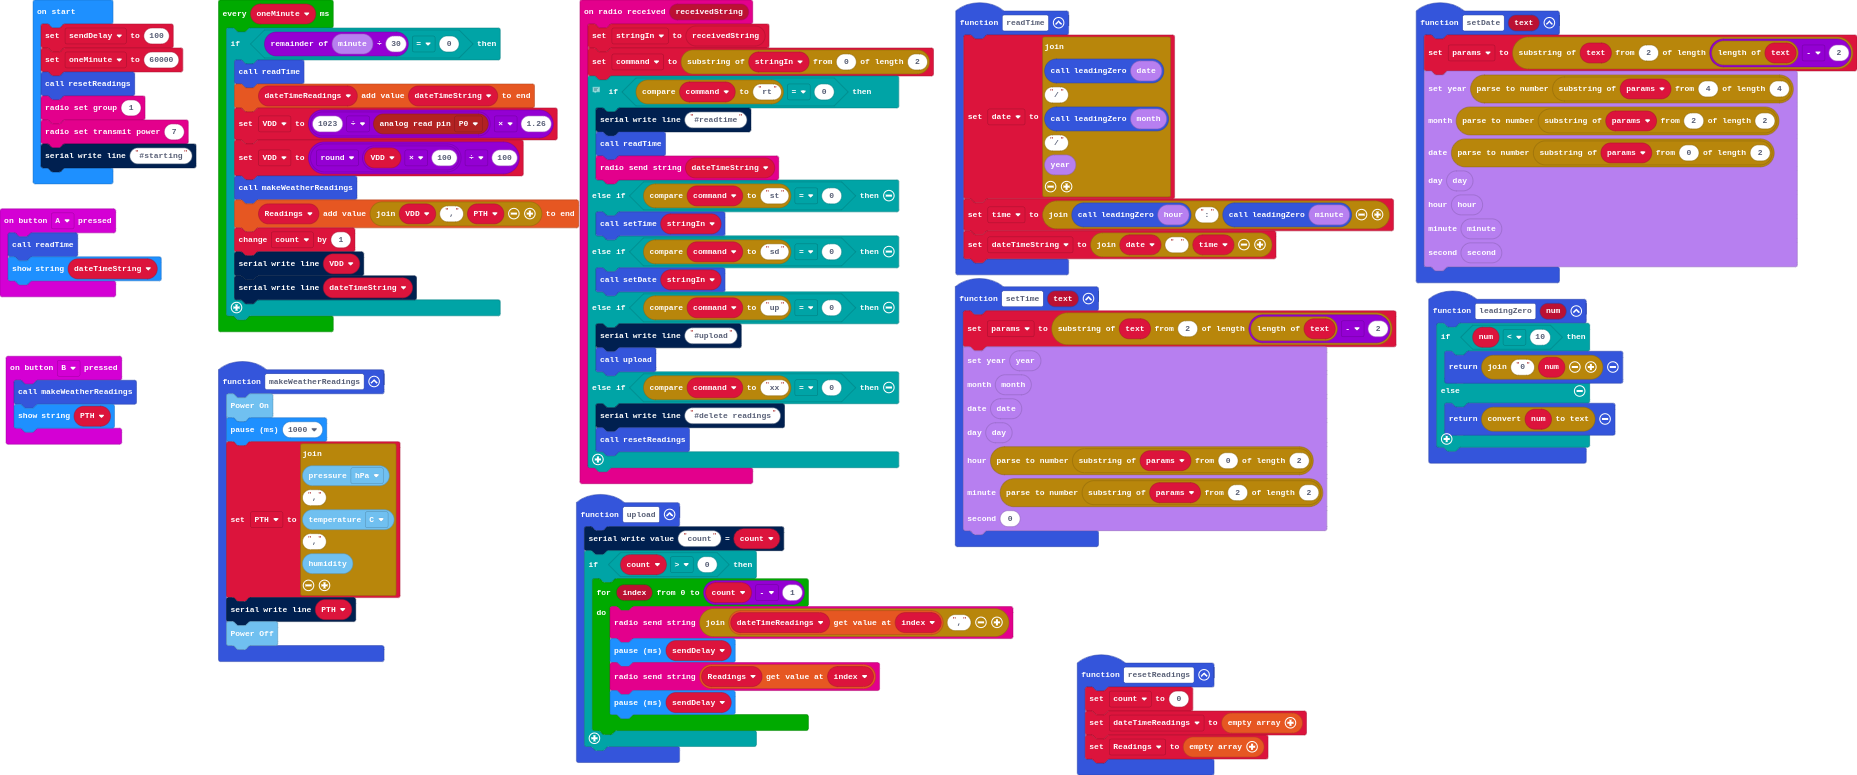
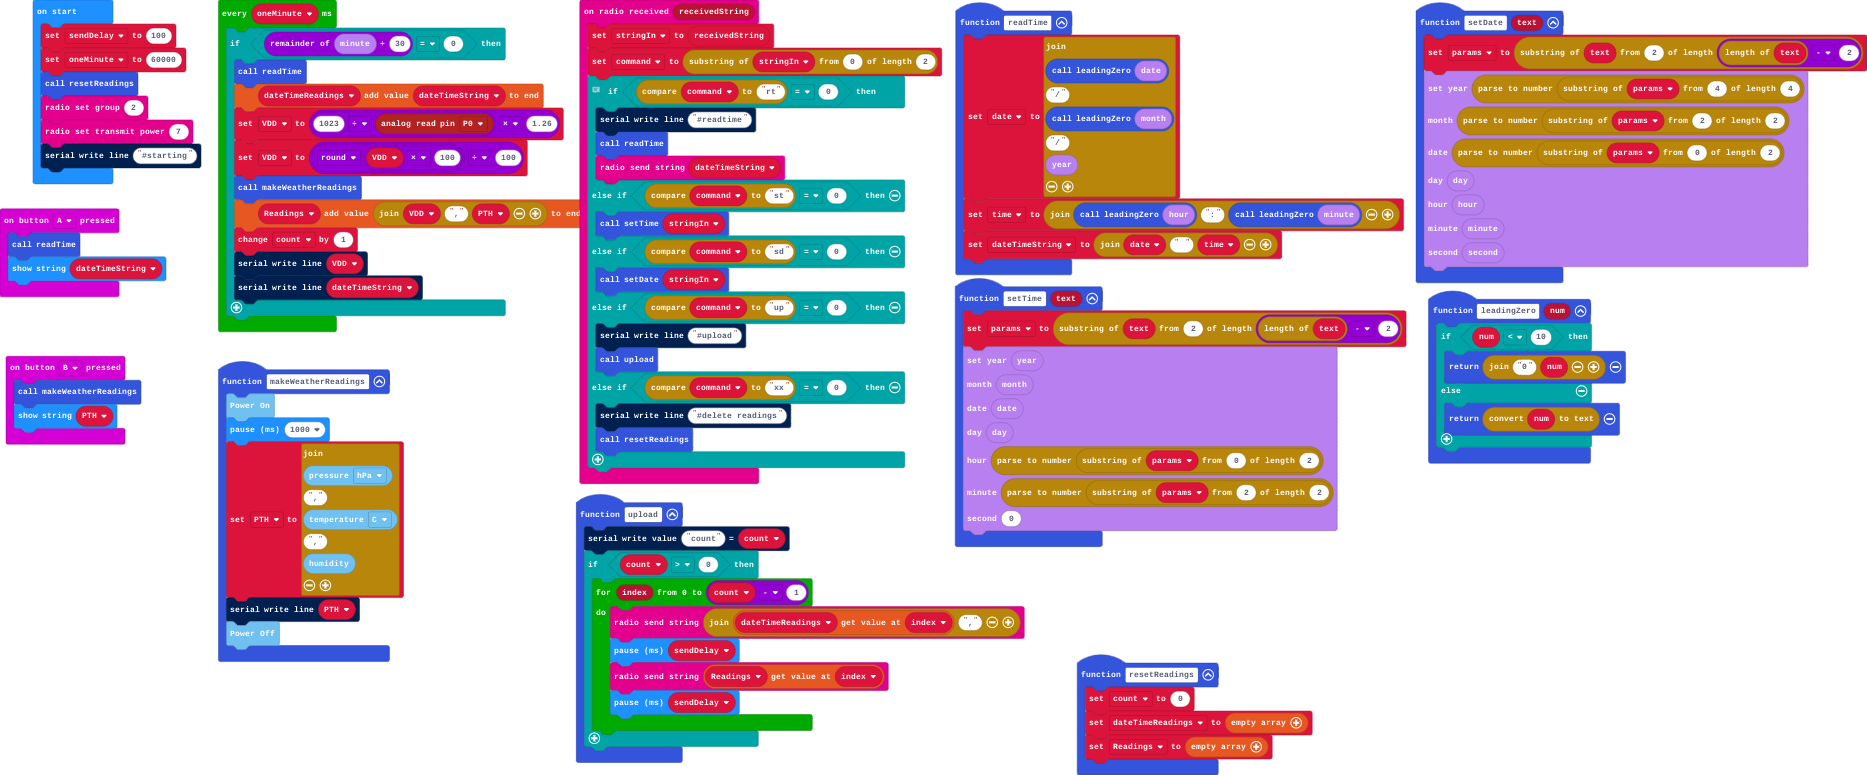
changed to radio group 2

diff --git a/main.ts b/main.ts
@@ -102,7 +102,7 @@ let sendDelay = 0
 sendDelay = 100
 let oneMinute = 60000
 resetReadings()
-radio.setGroup(1)
+radio.setGroup(2)
 radio.setTransmitPower(7)
 serial.writeLine("#starting")
 loops.everyInterval(oneMinute, function () {
